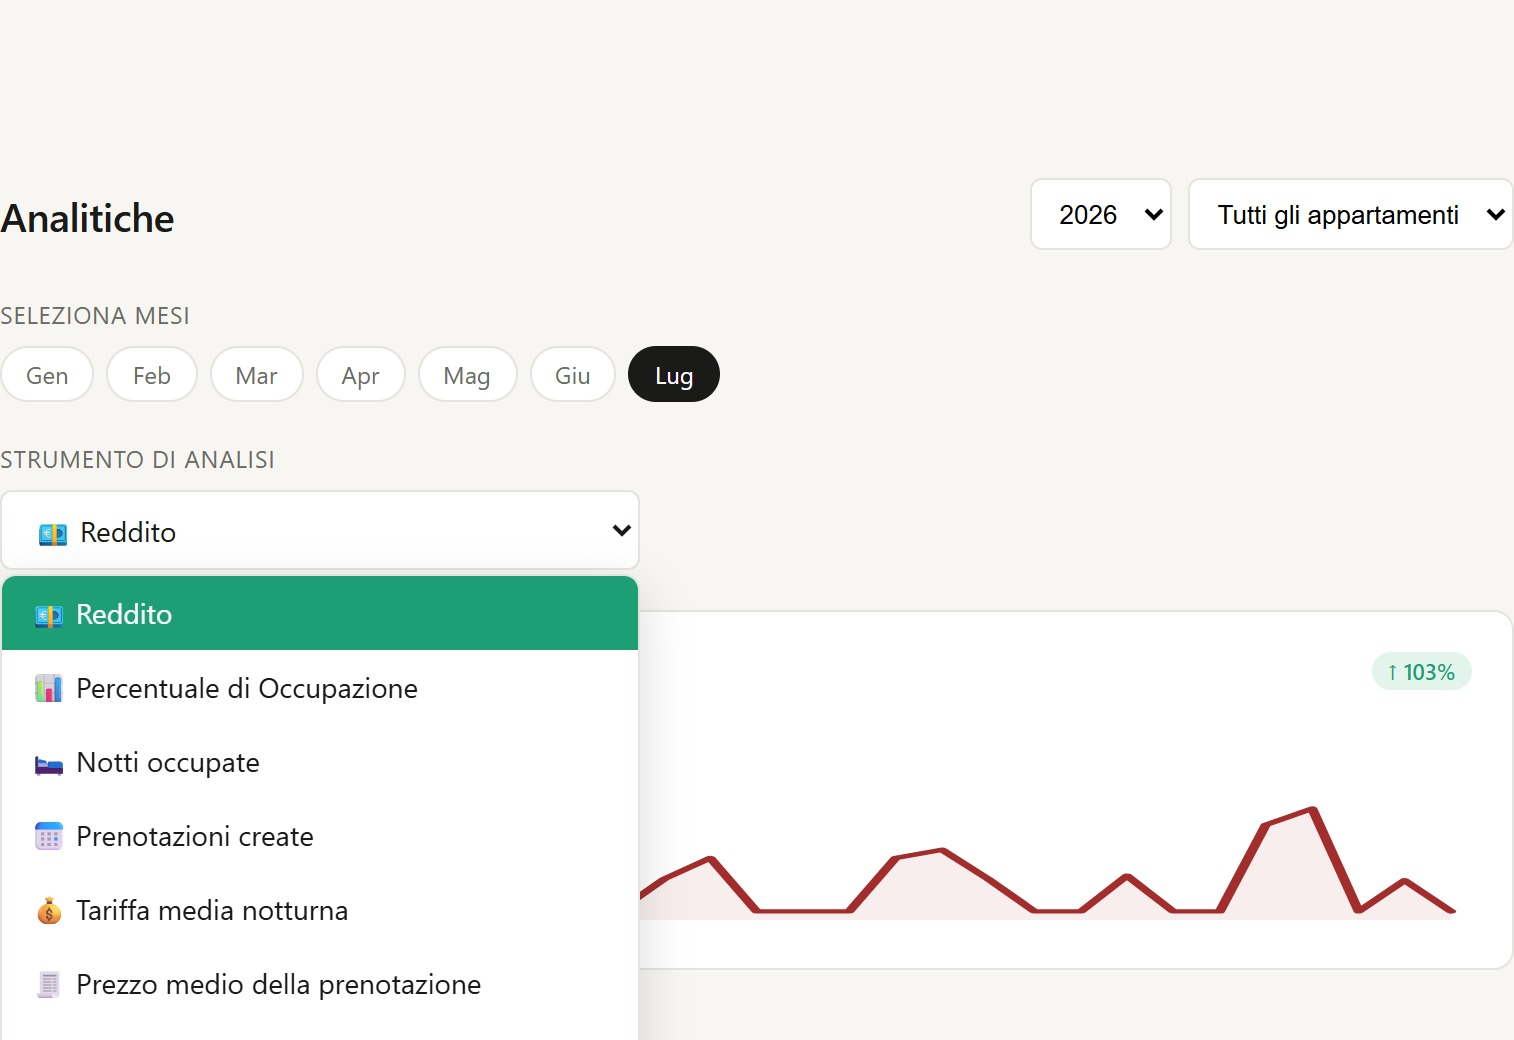
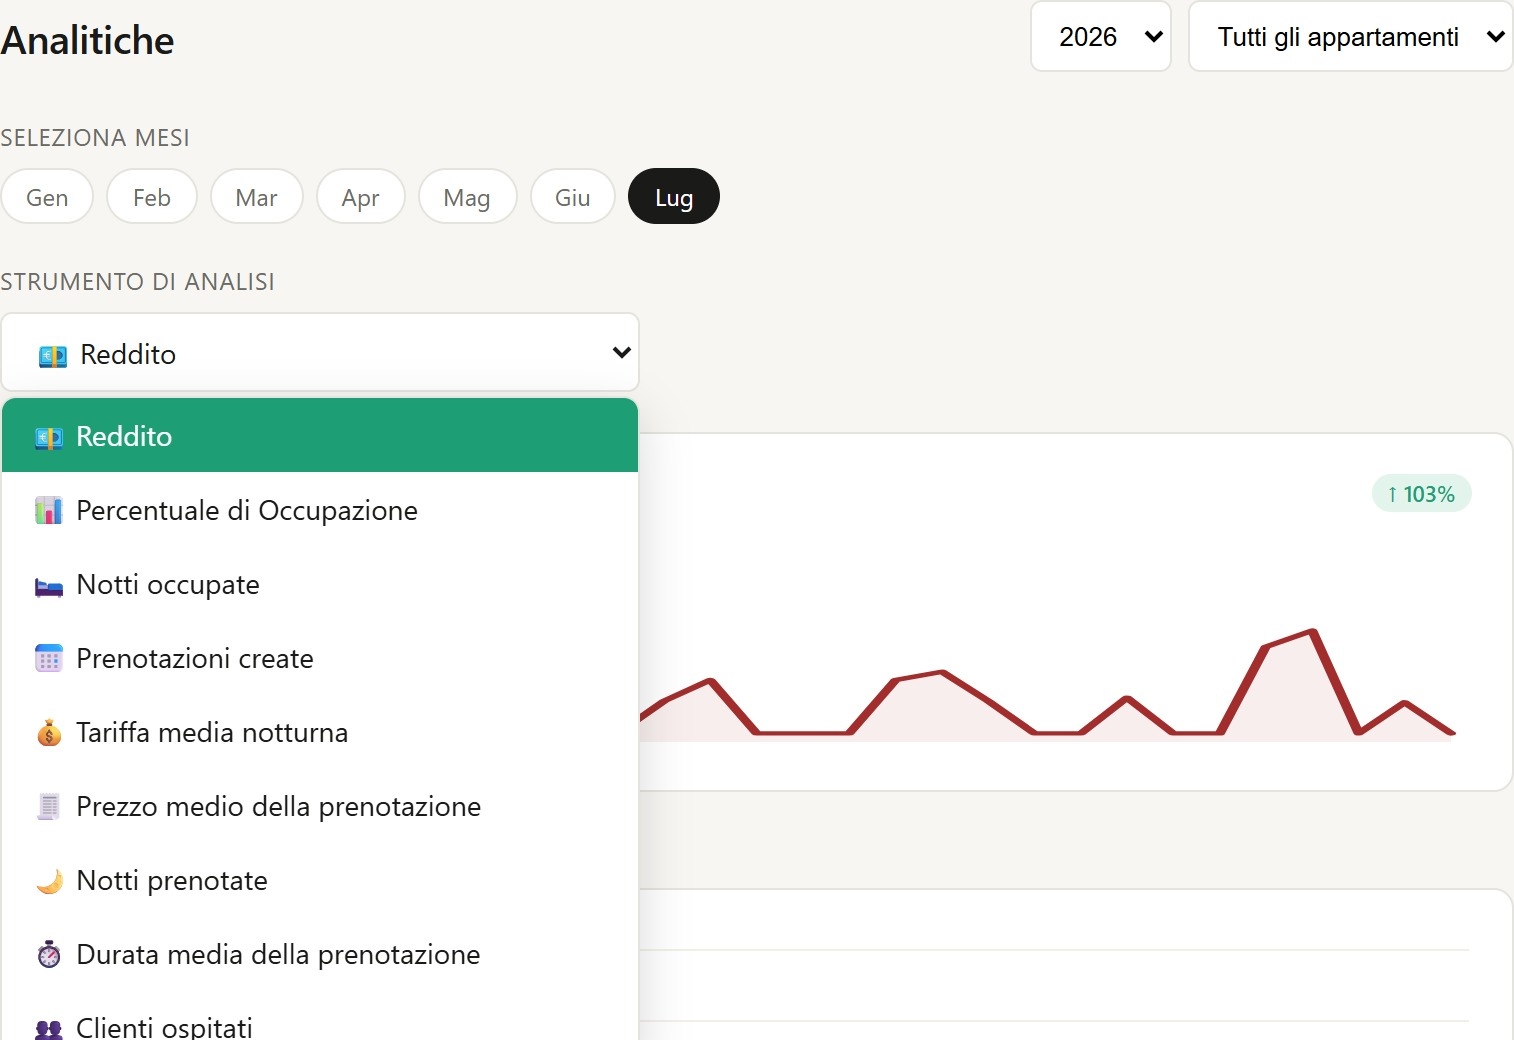
Sito: anteprime a tutta larghezza (immagini piu' grandi)
Le anteprime erano su due colonne, ~525px di larghezza: troppo piccole
per leggere i dettagli (calendario, analitiche). Ora una per riga a
tutta larghezza del contenitore, 1078px: il doppio.

Lo screenshot del calendario e' rigenerato filtrato su un solo
appartamento: con tutti e tre il mese veniva 2152px di altezza e a
tutta larghezza sarebbe stato un blocco enorme o tagliato a meta'
settimana. Cosi' si vede il mese completo, senza tagli.

diff --git a/public/index.html b/public/index.html
@@ -161,7 +161,7 @@ footer{background:var(--navy);color:rgba(255,255,255,0.45);padding:3rem 2rem}
       <div class="section-tag">Anteprima</div>
       <h2 class="section-title">Semplice, veloce, tutto in uno</h2>
     </div>
-    <div class="screenshots-grid" style="display:grid;grid-template-columns:1fr 1fr;gap:1.75rem">
+    <div class="screenshots-grid" style="display:grid;grid-template-columns:1fr;gap:2.5rem">
       <div style="border-radius:12px;overflow:hidden;box-shadow:0 8px 32px rgba(26,46,74,0.12);border:1px solid var(--border)">
         <div style="background:var(--navy);padding:10px 16px;display:flex;align-items:center;gap:6px">
           <div style="width:10px;height:10px;border-radius:50%;background:rgba(255,255,255,0.2)"></div>
